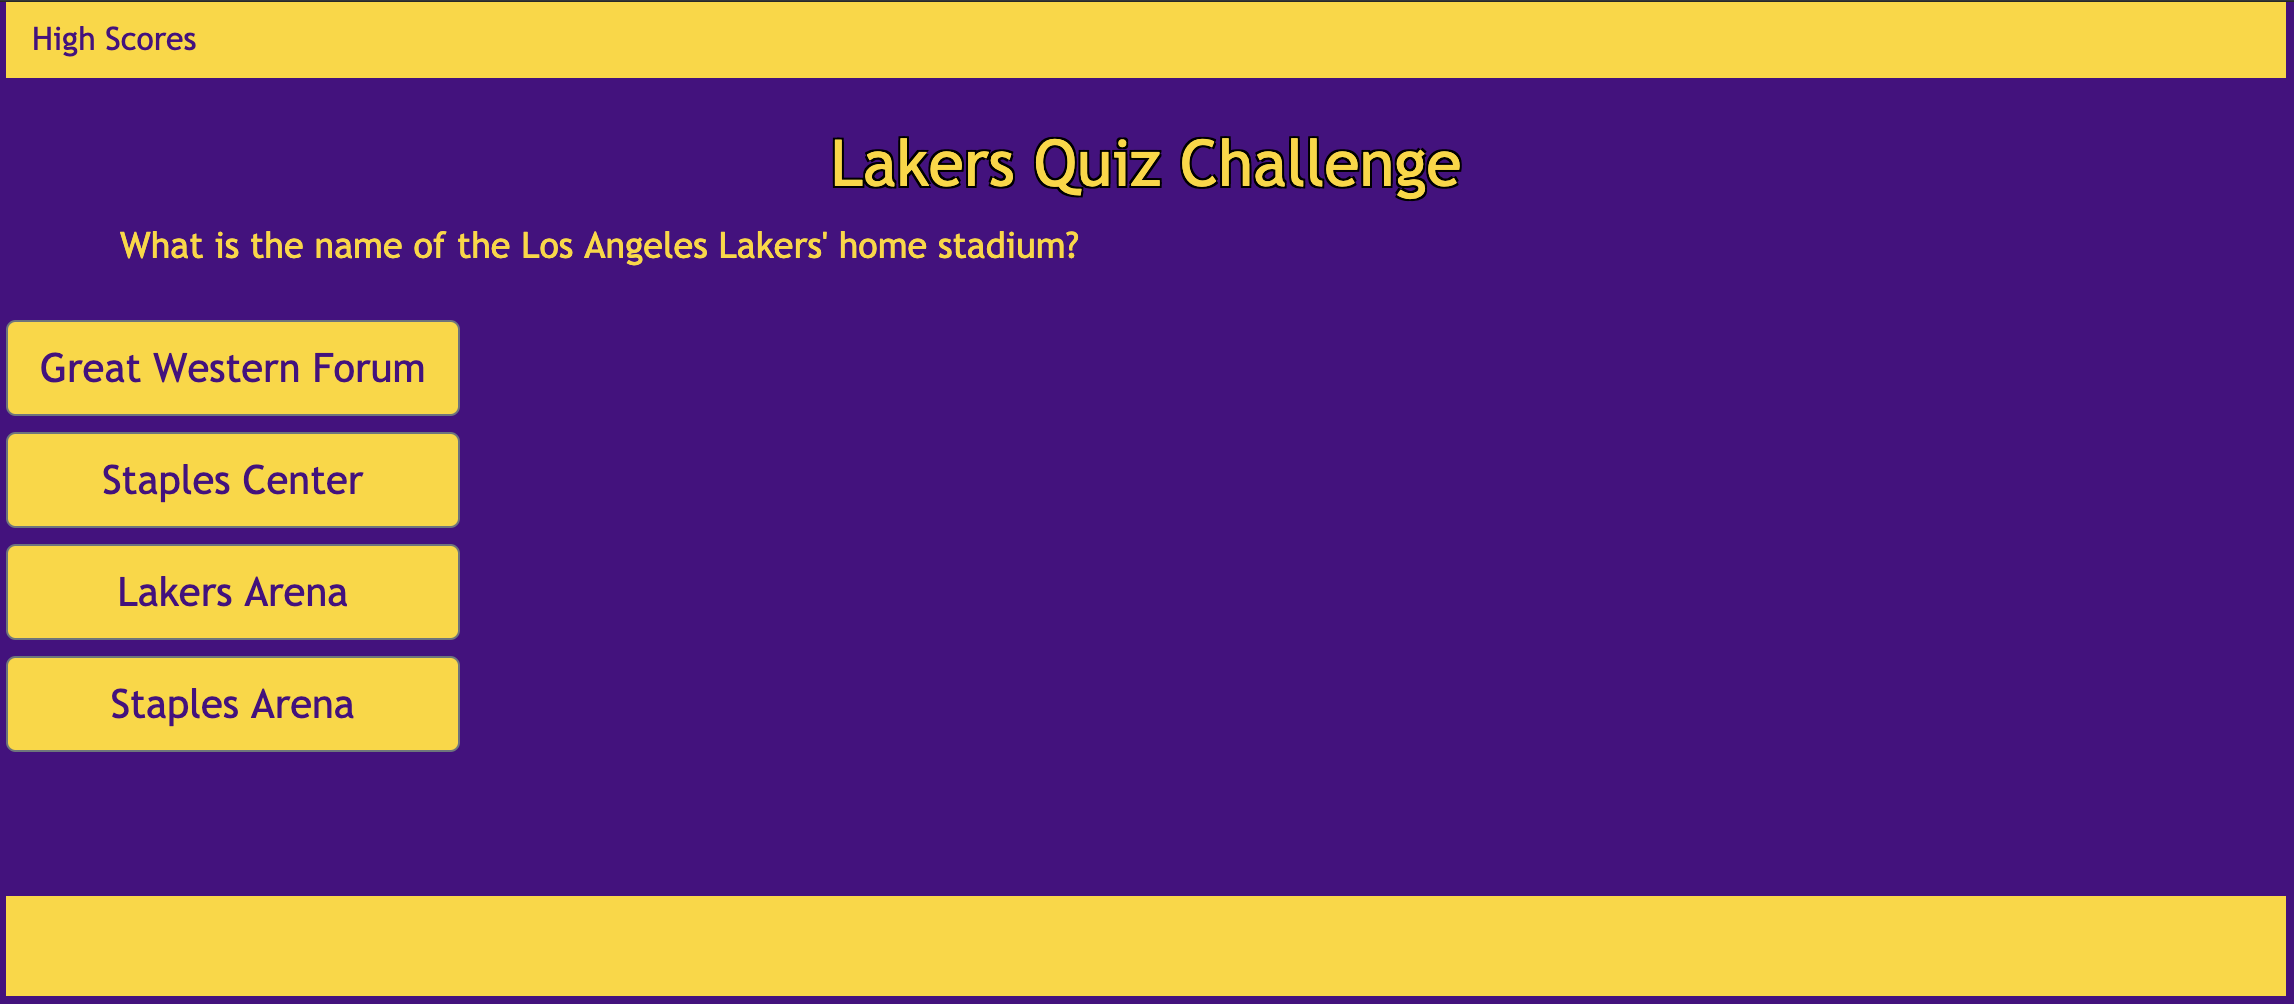
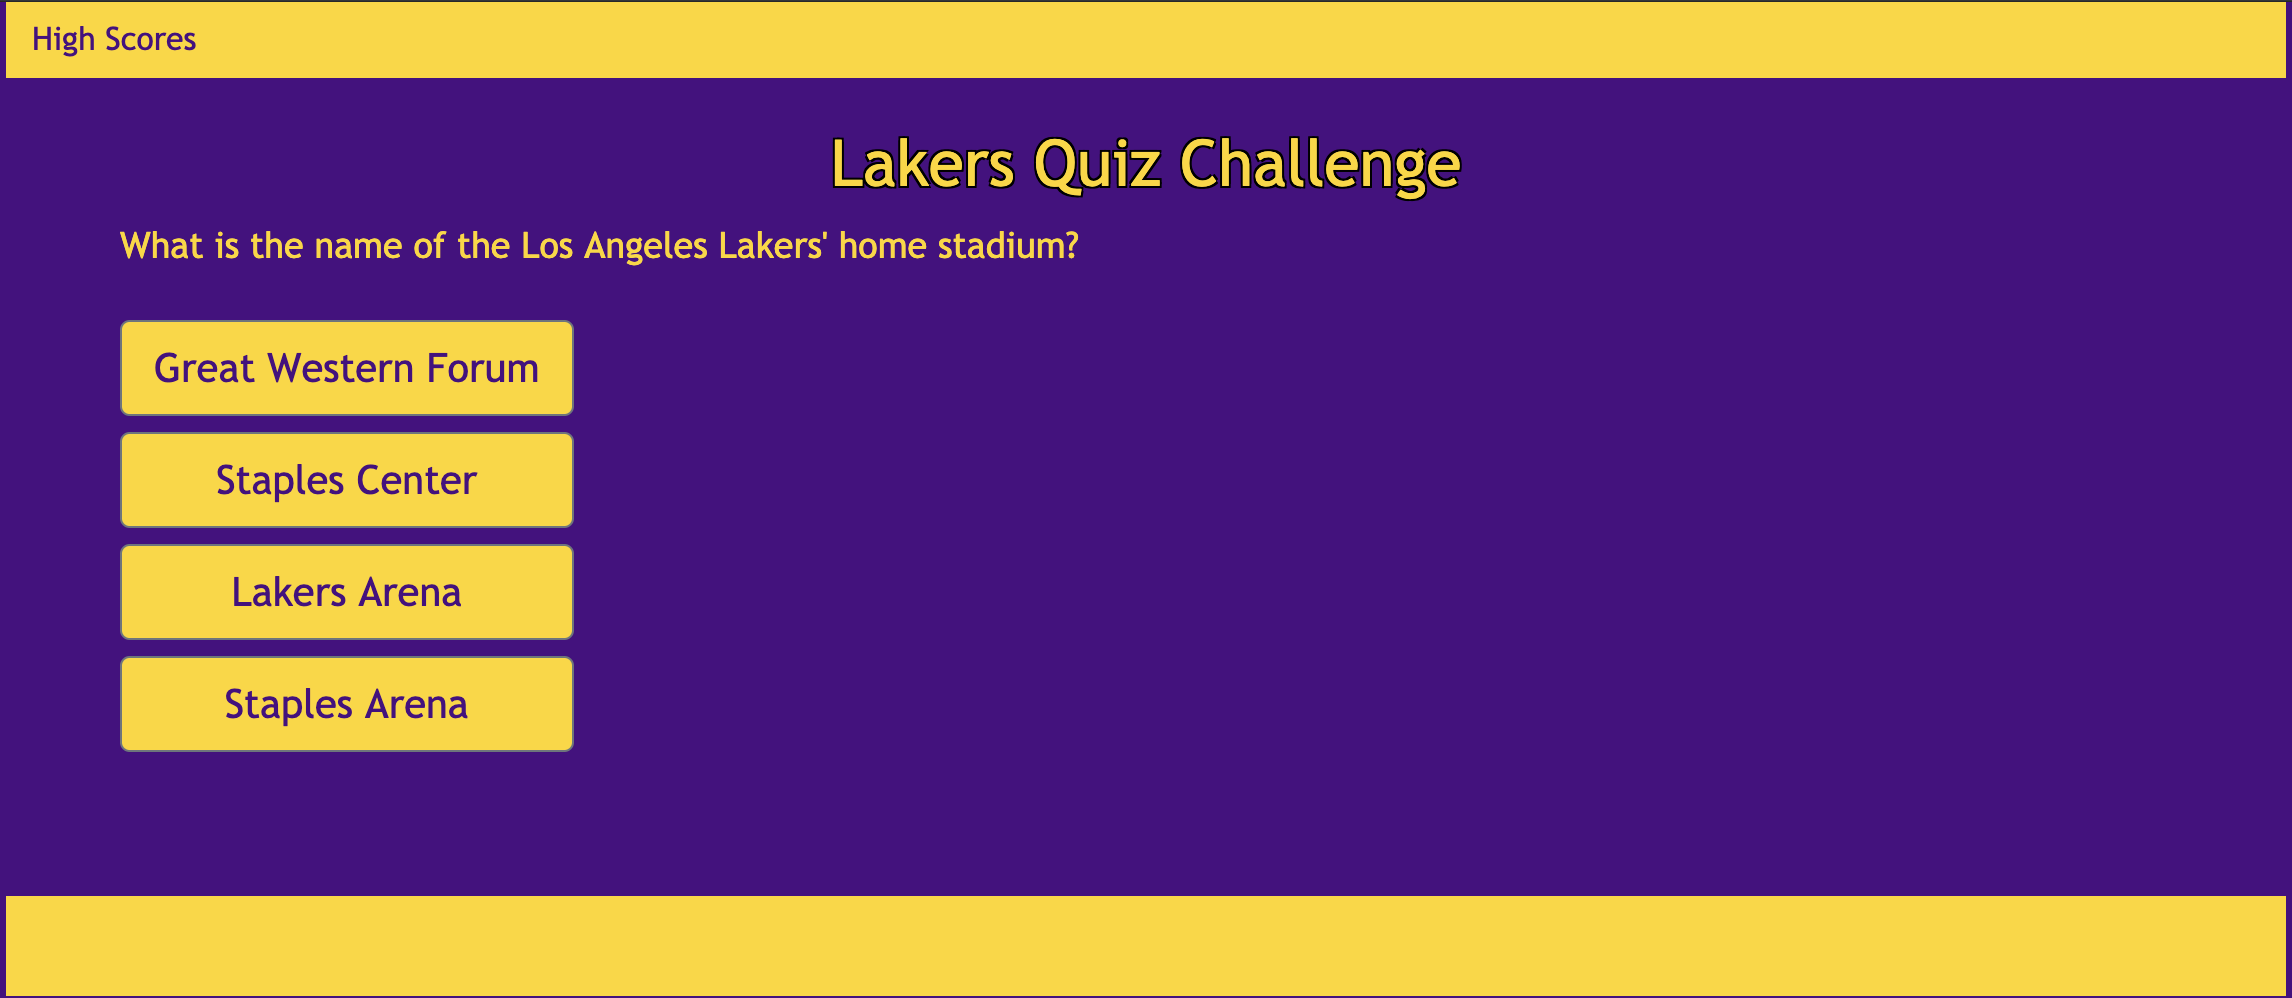
Changed 2nd screenshot on readme file

diff --git a/assets/style.css b/assets/style.css
@@ -51,6 +51,11 @@ footer {
     margin-right: 5%;   
 }
 
+#quiz-texttwo {
+    margin-left: 5%;
+    margin-right: 5%;   
+}
+
 #answera {
     background-color: gold;
     color: indigo;
